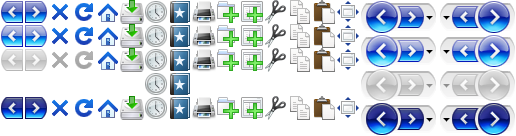
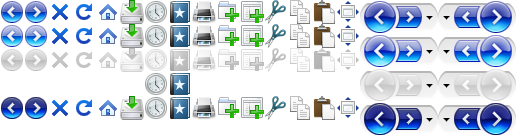
Bug 430384: tweak browser.css to use new dimensions of keyhole on windows xp & vista, patch by D?o Gottwald, r+a=mconnor

diff --git a/browser/themes/winstripe/browser/browser.css b/browser/themes/winstripe/browser/browser.css
@@ -234,31 +234,31 @@ toolbar[mode="icons"] #back-button {
 }
 
 toolbar[iconsize="large"][mode="icons"] #back-button {
-  -moz-image-region: rect(0px 398px 34px 360px);
+  -moz-image-region: rect(0px 396px 34px 360px);
 }
 toolbar[iconsize="large"][mode="icons"] #back-button:not([disabled="true"]):hover {
-  -moz-image-region: rect(34px 398px 68px 360px);
+  -moz-image-region: rect(34px 396px 68px 360px);
 }
 toolbar[iconsize="large"][mode="icons"] #back-button[disabled="true"] {
-  -moz-image-region: rect(68px 398px 102px 360px);
+  -moz-image-region: rect(68px 396px 102px 360px);
 }
 toolbar[iconsize="large"][mode="icons"] #back-button:not([disabled="true"]):hover:active {
-  -moz-image-region: rect(102px 398px 136px 360px);
+  -moz-image-region: rect(102px 396px 136px 360px);
 }
 
 /* unified back button with keyhole icons, RTL version */
 
 toolbar[iconsize="large"][mode="icons"] #back-button[chromedir="rtl"] {
-  -moz-image-region: rect(0px 516px 34px 478px);
+  -moz-image-region: rect(0px 516px 34px 480px);
 }
 toolbar[iconsize="large"][mode="icons"] #back-button[chromedir="rtl"]:not([disabled="true"]):hover {
-  -moz-image-region: rect(34px 516px 68px 478px);
+  -moz-image-region: rect(34px 516px 68px 480px);
 }
 toolbar[iconsize="large"][mode="icons"] #back-button[chromedir="rtl"][disabled="true"] {
-  -moz-image-region: rect(68px 516px 102px 478px);
+  -moz-image-region: rect(68px 516px 102px 480px);
 }
 toolbar[iconsize="large"][mode="icons"] #back-button[chromedir="rtl"]:not([disabled="true"]):hover:active {
-  -moz-image-region: rect(102px 516px 136px 478px);
+  -moz-image-region: rect(102px 516px 136px 480px);
 }
 
 /* unified forward button with keyhole icons */
@@ -270,31 +270,31 @@ toolbar[mode="icons"] #forward-button {
 }
 
 toolbar[iconsize="large"][mode="icons"] #forward-button {
-  -moz-image-region: rect(3px 424px 31px 398px);
+  -moz-image-region: rect(3px 422px 31px 396px);
 }
 toolbar[iconsize="large"][mode="icons"] #forward-button:not([disabled="true"]):hover {
-  -moz-image-region: rect(37px 424px 65px 398px);
+  -moz-image-region: rect(37px 422px 65px 396px);
 }
 toolbar[iconsize="large"][mode="icons"] #forward-button[disabled="true"] {
-  -moz-image-region: rect(71px 424px 99px 398px);
+  -moz-image-region: rect(71px 422px 99px 396px);
 }
 toolbar[iconsize="large"][mode="icons"] #forward-button:not([disabled="true"]):hover:active {
-  -moz-image-region: rect(105px 424px 133px 398px);
+  -moz-image-region: rect(105px 422px 133px 396px);
 }
 
 /* unified forward button with keyhole icons, RTL version */
 
 toolbar[iconsize="large"][mode="icons"] #forward-button[chromedir="rtl"] {
-  -moz-image-region: rect(3px 478px 31px 452px);
+  -moz-image-region: rect(3px 480px 31px 454px);
 }
 toolbar[iconsize="large"][mode="icons"] #forward-button[chromedir="rtl"]:not([disabled="true"]):hover {
-  -moz-image-region: rect(37px 478px 65px 452px);
+  -moz-image-region: rect(37px 480px 65px 454px);
 }
 toolbar[iconsize="large"][mode="icons"] #forward-button[chromedir="rtl"][disabled="true"] {
-  -moz-image-region: rect(71px 478px 99px 452px);
+  -moz-image-region: rect(71px 480px 99px 454px);
 }
 toolbar[iconsize="large"][mode="icons"] #forward-button[chromedir="rtl"]:not([disabled="true"]):hover:active {
-  -moz-image-region: rect(105px 478px 133px 452px);
+  -moz-image-region: rect(105px 480px 133px 454px);
 }
 
 /* dropmarker for unified back and forward buttons with keyhole icons */
@@ -317,31 +317,31 @@ toolbar[mode="icons"] #back-forward-dropmarker > dropmarker {
 
 toolbar[iconsize="large"][mode="icons"] #back-forward-dropmarker {
   list-style-image: url("chrome://browser/skin/Toolbar.png");
-  -moz-image-region: rect(3px 438px 31px 424px);
+  -moz-image-region: rect(3px 438px 31px 422px);
 }
 toolbar[iconsize="large"][mode="icons"] #back-forward-dropmarker:not([disabled="true"]):hover {
-  -moz-image-region: rect(37px 438px 65px 424px);
+  -moz-image-region: rect(37px 438px 65px 422px);
 }
 toolbar[iconsize="large"][mode="icons"] #back-forward-dropmarker[disabled="true"] {
-  -moz-image-region: rect(71px 438px 99px 424px);
+  -moz-image-region: rect(71px 438px 99px 422px);
 }
 toolbar[iconsize="large"][mode="icons"] #back-forward-dropmarker:not([disabled="true"]):hover:active {
-  -moz-image-region: rect(105px 438px 133px 424px);
+  -moz-image-region: rect(105px 438px 133px 422px);
 }
 
 /* unified dropmarker with keyhole icons, RTL version */
 
 toolbar[iconsize="large"][mode="icons"] #back-forward-dropmarker[chromedir="rtl"] {
-  -moz-image-region: rect(3px 452px 31px 438px);
+  -moz-image-region: rect(3px 454px 31px 438px);
 }
 toolbar[iconsize="large"][mode="icons"] #back-forward-dropmarker[chromedir="rtl"]:not([disabled="true"]):hover {
-  -moz-image-region: rect(37px 452px 65px 438px);
+  -moz-image-region: rect(37px 454px 65px 438px);
 }
 toolbar[iconsize="large"][mode="icons"] #back-forward-dropmarker[chromedir="rtl"][disabled="true"] {
-  -moz-image-region: rect(71px 452px 99px 438px);
+  -moz-image-region: rect(71px 454px 99px 438px);
 }
 toolbar[iconsize="large"][mode="icons"] #back-forward-dropmarker[chromedir="rtl"]:not([disabled="true"]):hover:active {
-  -moz-image-region: rect(105px 452px 133px 438px);
+  -moz-image-region: rect(105px 454px 133px 438px);
 }
 
 /* ::::: unified back and forward buttons, small icons mode ::::: */
